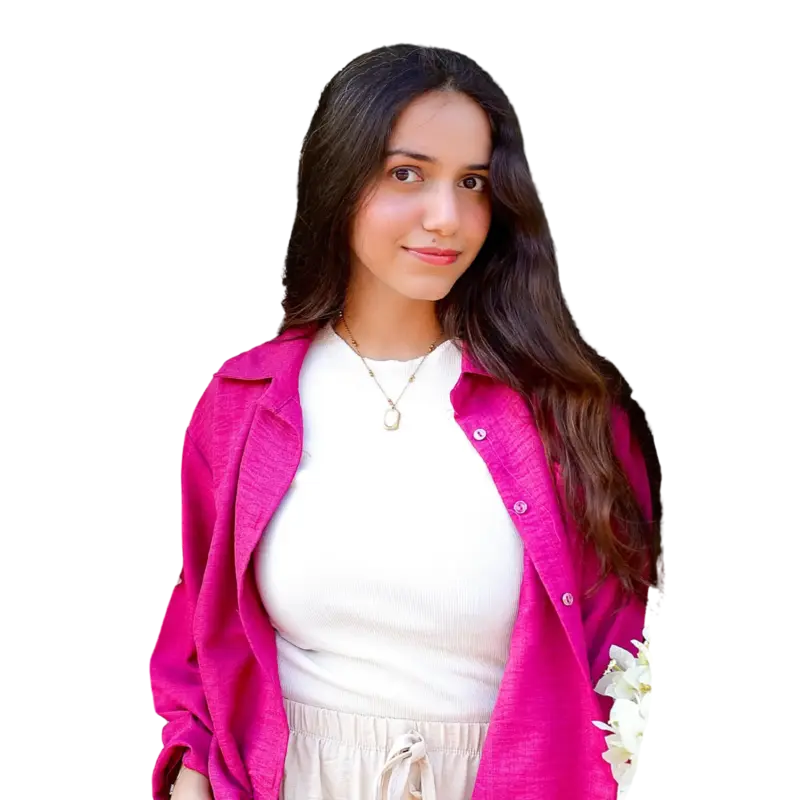
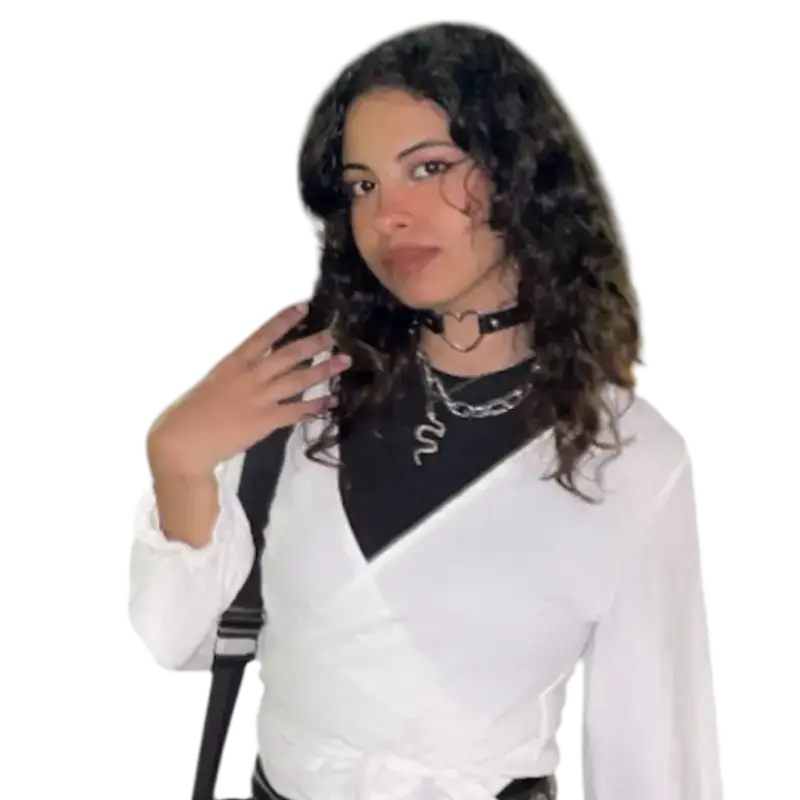
update data

diff --git a/src/data/board.ts b/src/data/board.ts
@@ -1,16 +1,11 @@
 import { Board } from "./types";
 // Board Photos
 import webHead from "@/public/board/web_head.webp";
-import webVice from "@/public/board/web_vice.webp";
 import aiHead from "@/public/board/ai_head.webp";
 import roboticsHead from "@/public/board/robotics_head.webp";
-import roboticsVice from "@/public/board/robotics_vice.webp";
 import cyberHead from "@/public/board/cyber_head.webp";
-import electronicsHead from "@/public/board/electronics_head.webp";
 import mediaHead from "@/public/board/media_head.webp";
-import mediaVice from "@/public/board/media_vice.webp";
 import hrHead from "@/public/board/hr_head.webp";
-import prHead from "@/public/board/pr_head.webp";
 import eventHead from "@/public/board/event_head.webp";
 
 export const board: Board[] = [
@@ -24,16 +19,6 @@ export const board: Board[] = [
       image: {
         src: webHead,
         alt: "Head of Web Development Committee",
-      },
-    },
-    vice: {
-      name: "Ahmed Negm",
-      bio: "A web development professional with previous experience in freelance work, having built numerous web pages. With strong management skills and the ability to effectively motivate and guide the team. He organizes training sessions to explain web development, assign tasks, and track the progress of team members to ensure continuous growth and improvement.",
-      linkedin: "https://www.linkedin.com/in/ahmed-negm-758273230",
-      mail: "negm3266@gmail.com",
-      image: {
-        src: webVice,
-        alt: "Vice Head of Web Development Committee",
       },
     },
   },
@@ -62,16 +47,6 @@ export const board: Board[] = [
         alt: "Head of Robotics Committee",
       },
     },
-    vice: {
-      name: "Mohammed Abdelmogeth",
-      bio: "A Mechatronics Engineer and Vice Head of Robotics (Head of the Mechanical Department). Passionate about mechanical design, automation, and manufacturing, with experience in developing mechanical systems and performance analysis. Committed to fostering a hands-on learning environment and enhancing the team's skills in design and fabrication.",
-      linkedin: "https://www.linkedin.com/in/mohammed-abdelmogeth-516247329",
-      mail: "mohammedabdelmogeth18@gmail.com",
-      image: {
-        src: roboticsVice,
-        alt: "Vice Head of Robotics Committee",
-      },
-    },
   },
   {
     id: "cyber-security",
@@ -86,39 +61,29 @@ export const board: Board[] = [
       },
     },
   },
-  {
-    id: "electronics",
-    head: {
-      name: "Ali Ayman",
-      bio: "Lorem ipsum dolor sit amet consectetur adipisicing elit. Ad magnam illo, itaque dolor quaerat harum est non labore quia expedita repudiandae minus cupiditate hic asperiores cumque deleniti nemo. Pariatur repudiandae esse sunt libero iusto animi delectus aliquam, necessitatibus quidem laudantium.",
-      linkedin: "",
-      mail: "",
-      image: {
-        src: electronicsHead,
-        alt: "Head of Electronics Committee",
-      },
-    },
-  },
+  // {
+  //   id: "electronics",
+  //   head: {
+  //     name: "Ali Ayman",
+  //     bio: "Lorem ipsum dolor sit amet consectetur adipisicing elit. Ad magnam illo, itaque dolor quaerat harum est non labore quia expedita repudiandae minus cupiditate hic asperiores cumque deleniti nemo. Pariatur repudiandae esse sunt libero iusto animi delectus aliquam, necessitatibus quidem laudantium.",
+  //     linkedin: "",
+  //     mail: "",
+  //     image: {
+  //       src: electronicsHead,
+  //       alt: "Head of Electronics Committee",
+  //     },
+  //   },
+  // },
   {
     id: "media",
     head: {
-      name: "Samia Amr",
-      bio: "An experienced media professional with skills in graphic design, photography, and video editing. She leads the team with creativity and a focus on delivering high-quality visual content that enhances audience engagement and supports event success.",
-      linkedin: "https://www.linkedin.com/in/samia-amr-25b157248",
-      mail: "samiaamr26@gmail.com",
-      image: {
-        src: mediaHead,
-        alt: "Head of Media Committee",
-      },
-    },
-    vice: {
       name: "Youmna Mohammed",
       bio: "Supporting the creative vision of the Committee by skilfully handling multimedia tasks, including graphic design, photography and video production. Assisting in bringing ideas to life through visuals that align with our goals.",
       linkedin: "https://www.linkedin.com/in/youmna-muhammed-b00306303",
       mail: "Y60812344@gmail.com",
       image: {
-        src: mediaVice,
-        alt: "Vice Head of Media Committee",
+        src: mediaHead,
+        alt: "Head of Media Committee",
       },
     },
   },
@@ -135,19 +100,19 @@ export const board: Board[] = [
       },
     },
   },
-  {
-    id: "pr",
-    head: {
-      name: "Jumannah Farouk",
-      bio: "Lorem ipsum dolor sit amet consectetur adipisicing elit. Ad magnam illo, itaque dolor quaerat harum est non labore quia expedita repudiandae minus cupiditate hic asperiores cumque deleniti nemo. Pariatur repudiandae esse sunt libero iusto animi delectus aliquam, necessitatibus quidem laudantium.",
-      linkedin: "",
-      mail: "",
-      image: {
-        src: prHead,
-        alt: "Head of PR Committee",
-      },
-    },
-  },
+  // {
+  //   id: "pr",
+  //   head: {
+  //     name: "Jumannah Farouk",
+  //     bio: "Lorem ipsum dolor sit amet consectetur adipisicing elit. Ad magnam illo, itaque dolor quaerat harum est non labore quia expedita repudiandae minus cupiditate hic asperiores cumque deleniti nemo. Pariatur repudiandae esse sunt libero iusto animi delectus aliquam, necessitatibus quidem laudantium.",
+  //     linkedin: "",
+  //     mail: "",
+  //     image: {
+  //       src: prHead,
+  //       alt: "Head of PR Committee",
+  //     },
+  //   },
+  // },
   {
     id: "event-coordination",
     head: {

diff --git a/src/data/events.ts b/src/data/events.ts
@@ -1,19 +1,47 @@
 import { LatestEvent, UpcomingEvent } from "./types";
 // upcoming Events Images
+/* --------------------------------------------------------------- */
 // Latest Events Images
+import techNights from "@/public/events/latest/tech_nights.webp";
+import robotiva from "@/public/events/latest/robotiva.webp";
 import promptEng from "@/public/events/latest/prompt_eng.webp";
 import huaweiIct from "@/public/events/latest/huawei_ict.webp";
 import uiuxEssentials from "@/public/events/latest/uiux_essentials.webp";
 import hrGuided from "@/public/events/latest/hr_guided.webp";
 import makeYourReel from "@/public/events/latest/make_your_reel.webp";
 
+// Note: Events are in chronological order with the most recent event being first in the data structure.
+
 export const upcomingEvents: UpcomingEvent[] = [];
 
 export const latestEvents: LatestEvent[] = [
   {
     category: "technical",
+    title: "Tech Nights - Bootcamp Series",
+    date: "Mar 6 - Mar 22, 2025",
+    location: "Online",
+    description:
+      "A multi-track bootcamp series organized by IEEE, offering students a solid introduction to key tech fields including AI, Web Development, Cybersecurity, and Electronics. Each track offers hands-on sessions led by experienced mentors, aiming to equip students with practical skills and foundational knowledge in a collaborative, beginner-friendly environment.",
+    image: { src: techNights, alt: "Tech Nights" },
+  },
+  {
+    category: "technical",
+    title: "Robotiva - Robotics Competition",
+    date: "Feb 28, 2024",
+    location: "Creativa Hub, Ismailia",
+    description:
+      "Robotiva was a robotics competition organized by IEEE in collaboration with Creativa Hub, Ismailia. The event brought together aspiring engineers and tech enthusiasts to design, build, and compete with their own robots in a high-energy, challenge-based environment. Participants showcased their creativity, teamwork, and problem-solving skills as they tackled real-world robotics scenarios, making Robotiva a standout experience in hands-on engineering.",
+    image: { src: robotiva, alt: "Robotiva Competition" },
+    socialMediaPostLinks: {
+      facebook: "https://www.facebook.com/share/r/1AXQdMwQo3",
+      instagram:
+        "https://www.instagram.com/reel/DGncONGMjJ-/?utm_source=ig_web_copy_link&igsh=MzRlODBiNWFlZA==",
+    },
+  },
+  {
+    category: "technical",
     title: "Prompt Engineering Workshop",
-    date: "December 5, 2024",
+    date: "Dec 5, 2024",
     location: "ITI, Ismailia",
     description:
       "The event explored the transformative power of AI in enhancing creativity. Participants discovered how AI can be used to design stunning videos, create catchy songs, generate breathtaking images, craft unique logos, develop responsive websites, and optimize LinkedIn profiles, showcasing its vast potential across various creative fields.",
@@ -30,7 +58,7 @@ export const latestEvents: LatestEvent[] = [
   {
     category: "non-technical",
     title: "Huawei Global ICT Competition for 2024-2025 Launch",
-    date: "November 18, 2024",
+    date: "Nov 18, 2024",
     location: "Faculty of Engineering, SCU",
     description:
       "The Huawei Global ICT Competition 2024-2025 launch was successfully held at the Faculty of Engineering, Suez Canal University. The event featured insightful discussions and gave students the opportunity to explore advanced technologies in AI, Cloud Computing, Communications, and Networks, fostering innovation and technical expertise.",
@@ -49,7 +77,7 @@ export const latestEvents: LatestEvent[] = [
   {
     category: "non-technical",
     title: "UI/UX Essentials Workshop",
-    date: "September 9, 2024",
+    date: "Sep 9, 2024",
     location: "Creativa Hub, Ismailia",
     description:
       "The event introduced participants to the world of UI/UX design, focusing on UX Research and the importance of UX in the industry. They learned to use Figma to create their first UI design, achieving impressive results in a short amount of time.",
@@ -65,7 +93,7 @@ export const latestEvents: LatestEvent[] = [
   {
     category: "non-technical",
     title: "HR Guided Workshop",
-    date: "September 8, 2024",
+    date: "Sep 8, 2024",
     location: "Creativa Hub, Ismailia",
     description:
       "The event focused on essential key skills and tools to help participants kickstart their careers. Attendees learned how to develop key soft skills, craft a winning CV and cover letter, optimize their LinkedIn profiles, and ace job interviews, providing them with valuable tools for career success.",
@@ -81,7 +109,7 @@ export const latestEvents: LatestEvent[] = [
   {
     category: "non-technical",
     title: "Make Your Reel Workshop",
-    date: "August 31, 2024",
+    date: "Aug 31, 2024",
     location: "Creativa Hub, Ismailia",
     description:
       "The event focused on video editing, teaching participants how to transform raw material into professional-quality Reels or Shorts. Attendees learned essential editing skills, added professional touches to their videos, and elevated their editing techniques to create engaging and eye-catching content.",

diff --git a/src/app/committees/[id]/page.tsx b/src/app/committees/[id]/page.tsx
@@ -143,10 +143,12 @@ export default async function CommitteeDetails(props: {
         </section>
 
         {/* Committee Board */}
-        <section>
-          <h2 className="mb-8 text-center">Committee&apos;s Board</h2>
-          <div className={committeeVice ? "grid gap-8" : ""}>
-            {committeeHead && (
+        {committeeHead && (
+          <section>
+            <h2 className="mb-8 text-center">
+              Committee&apos;s {committeeVice ? "Board" : "Head"}
+            </h2>
+            <div className={committeeVice ? "grid gap-8" : ""}>
               <BoardCard
                 category={committee.category}
                 name={committeeHead.name}
@@ -159,23 +161,23 @@ export default async function CommitteeDetails(props: {
                   alt: committeeHead.image.alt,
                 }}
               />
-            )}
-            {committeeVice && (
-              <BoardCard
-                category={committee.category}
-                name={committeeVice.name}
-                position={`${committee.title} Vice Head`}
-                bio={committeeVice.bio}
-                linkedin={committeeVice.linkedin}
-                mail={committeeVice.mail}
-                image={{
-                  src: committeeVice.image.src,
-                  alt: committeeVice.image.alt,
-                }}
-              />
-            )}
-          </div>
-        </section>
+              {committeeVice && (
+                <BoardCard
+                  category={committee.category}
+                  name={committeeVice.name}
+                  position={`${committee.title} Vice Head`}
+                  bio={committeeVice.bio}
+                  linkedin={committeeVice.linkedin}
+                  mail={committeeVice.mail}
+                  image={{
+                    src: committeeVice.image.src,
+                    alt: committeeVice.image.alt,
+                  }}
+                />
+              )}
+            </div>
+          </section>
+        )}
 
         <div className="mx-auto">
           <NextPageLink href="/join">Interested in Joining Us?</NextPageLink>

diff --git a/src/components/events/LatestEventCard.tsx b/src/components/events/LatestEventCard.tsx
@@ -23,21 +23,29 @@ export default function LatestEventCard({
       ></Image>
 
       {/* Event Info */}
-      <div className="flex flex-col gap-4 justify-evenly p-4 md:p-6">
+      <div className="flex flex-col gap-4 p-4 md:p-6">
         {/* Title, Date and Location */}
         <div>
           <h3 className="max-w-lg text-lg md:text-xl mb-2">{title}</h3>
           <div className="flex justify-between items-baseline gap-x-4 flex-wrap">
-            <p
-              className={`font-bold tracking-wide text-sm flex gap-1 items-baseline ${
-                category === "technical" ? "text-primary-muted" : "text-purple-muted"
-              }`}
-            >
-              <CalendarDaysIcon className="size-3" />
+            <p className="font-medium tracking-wide text-sm flex gap-1 items-baseline">
+              <CalendarDaysIcon
+                className={`size-3 ${
+                  category === "technical"
+                    ? "text-primary-muted"
+                    : "text-purple-muted"
+                }`}
+              />
               {date}
             </p>
             <p className="font-medium text-sm flex gap-1 items-baseline">
-              <MapPinIcon className="size-3 text-red-600" />
+              <MapPinIcon
+                className={`size-3 ${
+                  category === "technical"
+                    ? "text-primary-muted"
+                    : "text-purple-muted"
+                }`}
+              />
               {location}
             </p>
           </div>

diff --git a/src/data/motm.ts b/src/data/motm.ts
@@ -1,8 +1,8 @@
 import { Motm } from "./types";
 
 export const motm: Motm = {
-  // name: "Mohamed Fareed",
-  // committee: "Cybersecurity Head",
-  // image: { src: cyberHead, alt: "Member of The Month Photo" },
-  // linkedin: "#",
+  // name: "Motm Name",
+  // committee: "Motm Committee",
+  // image: { src: Motm Photo, alt: "Member of The Month Photo" },
+  // linkedin: "#Motm Linkedin",
 };
